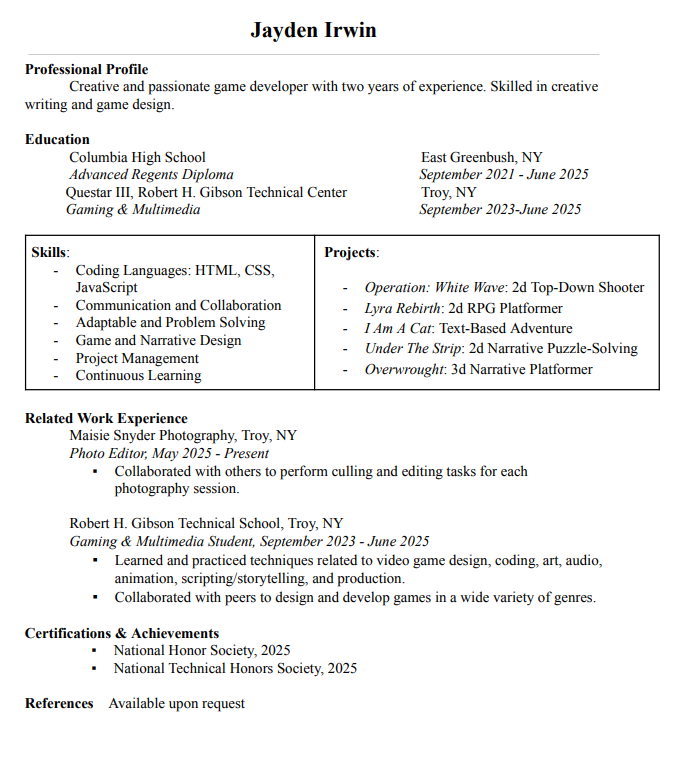
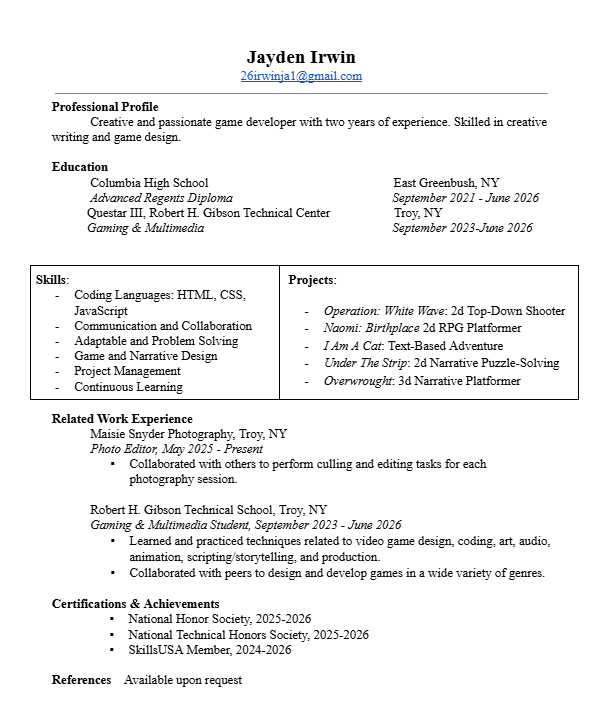
Finalization for Questar Assignment
small changes

Changed region(s): [[0.0311, 0.0307, 0.9656, 0.9512]]

diff --git a/Projects.html b/Projects.html
@@ -90,6 +90,9 @@
 <hr>
 <h1 style="color: #f5f5f5; text-align: left;">Pixel Art:</h1>
 <hr>
+
+<p style="color: #f5f5f5;"> All art in this section is for my solo project, Operation: White Wave</p>
+
     <div class="Extrasformating">
    <img class="pixelart" src="images/Animation 1.png" alt="Black Flame Recruit (Operation:White Wave)" style="width: 50%; height: auto;">
   </div>

diff --git a/Aboutme.html b/Aboutme.html
@@ -53,7 +53,11 @@ games good.
  </p>
   
   <br>
-  
+<div class="column6">
+<img src="images/Photo.png" alt="Picture of Jayden" style="width: 20%; height: auto;">
+</div> 
+
+
   <hr>
 
 </body>

diff --git a/index.html b/index.html
@@ -53,4 +53,5 @@
 <br> <br>
 </div>
 <hr>
+
 </body>
